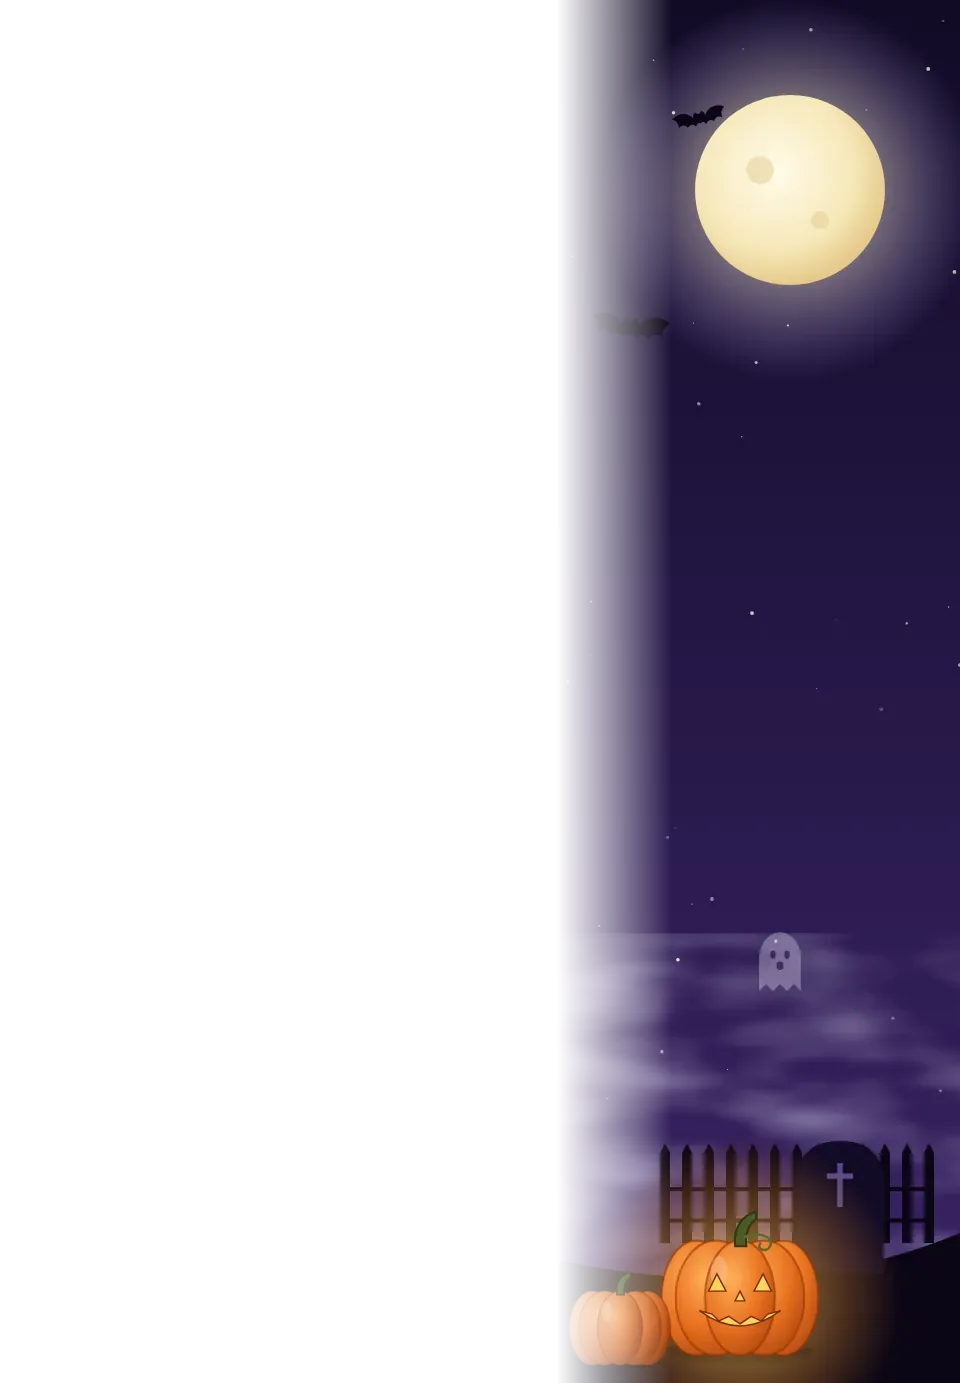
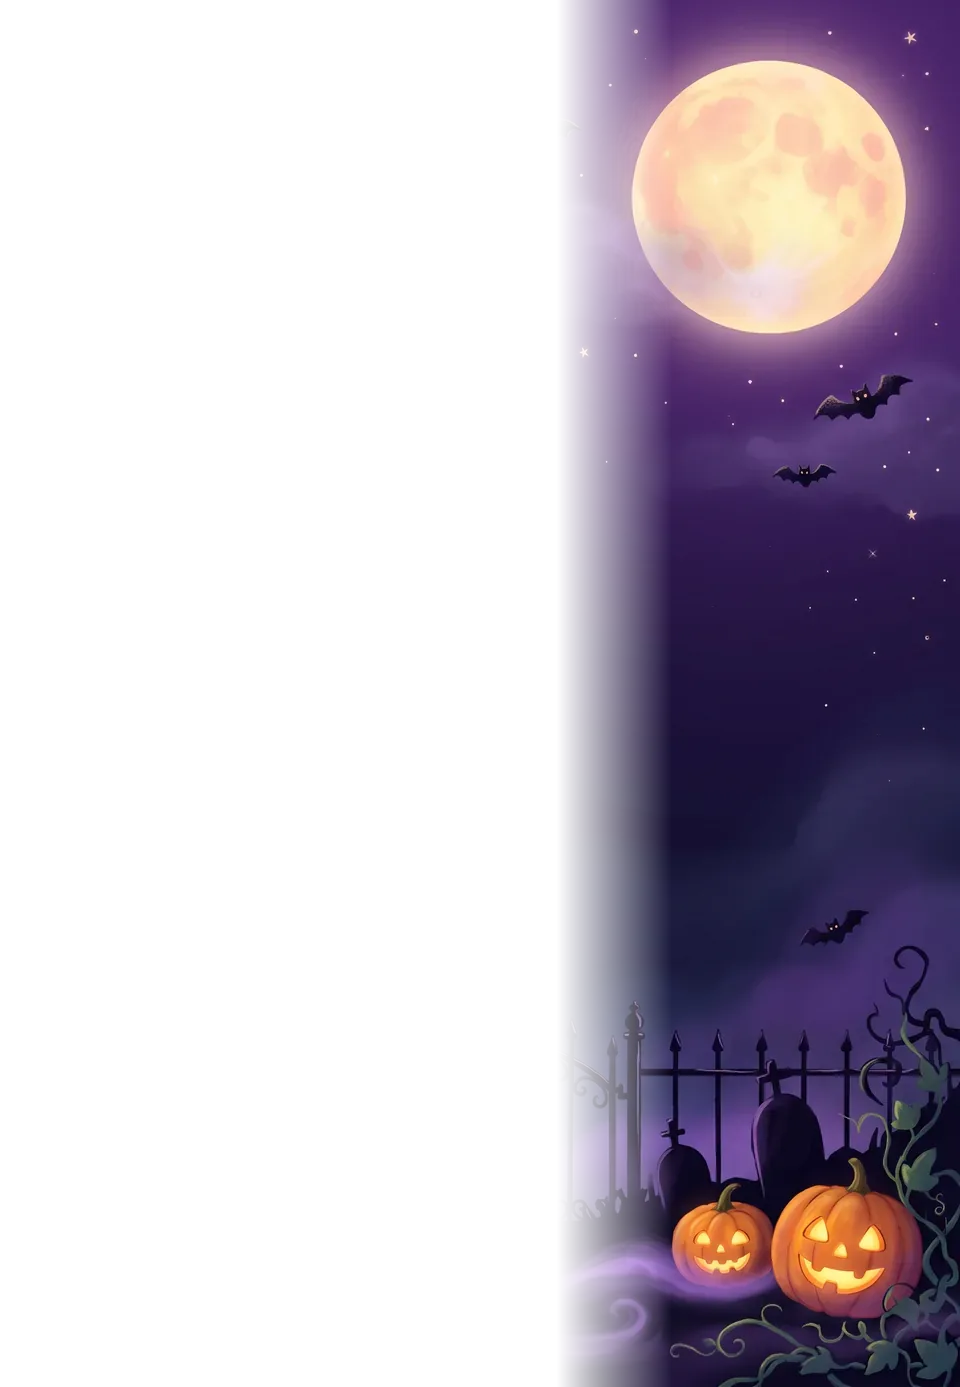
Use the AI images for the Halloween designs
- Pumpkin Patch and Haunted Night now use the generated card, background, side
  art, hero and venue images in place of the drawn stand-ins.
- The side art came with a drawn checkerboard instead of transparency:
  scripts/strip_checker.py clears it. The art is scaled to the outer edges so
  it stays clear of the text, and the mirrored right-side grave keeps "R.I.P."
  readable.

Claude-Session: https://claude.ai/code/session_01Ghh57wsWdzPhGMzGFRuGMB

Changed region(s): [[0.5938, 0.5597, 1.0, 1.0], [0.5938, 0.0, 1.0, 0.3731]]

diff --git a/scripts/strip_checker.py b/scripts/strip_checker.py
@@ -1,0 +1,85 @@
+#!/usr/bin/env python3
+"""Turns the grey-and-white "transparent" checkerboard that AI image tools draw into real transparency.
+
+It works on the grey-and-white grids Gemini and similar tools draw.
+
+Usage:  python3 scripts/strip_checker.py in.jpg out.webp [width height]
+(needs Pillow and numpy)
+
+How: a pixel is background when it is light and neutral grey, like the checker squares. Background regions
+touching the image edge are cleared; closed regions (inside a spider web, between wings) are cleared only when they
+hold both checker tones (light and lighter), so plain white shapes such as ghosts stay. Light edge pixels next to the cleared area are
+faded so no white halo shows on a dark page."""
+import sys
+from collections import deque
+
+import numpy as np
+from PIL import Image, ImageFilter
+
+
+def strip(src):
+    rgb = np.asarray(src.convert("RGB")).astype(np.int16)
+    mx, mn = rgb.max(2), rgb.min(2)
+    neutral = (mx - mn) < 14
+    cand = neutral & (mn >= 190)
+    lum0 = rgb.mean(2)
+    # label at half size (fast enough in pure Python)
+    h, w = cand.shape
+    c2 = cand[::2, ::2].copy()
+    L2 = lum0[::2, ::2]
+    H, W = c2.shape
+    lab = np.zeros((H, W), np.int32)
+    bg = np.zeros((H, W), bool)
+    nid = 0
+    rest = []
+    for sy in range(H):
+        row = c2[sy]
+        for sx in np.nonzero(row & (lab[sy] == 0))[0]:
+            if lab[sy, sx]:
+                continue
+            nid += 1
+            q = deque([(sy, sx)]); lab[sy, sx] = nid; pts = []; edge = False
+            while q:
+                y, x = q.popleft(); pts.append((y, x))
+                if y in (0, H - 1) or x in (0, W - 1):
+                    edge = True
+                for yy, xx in ((y + 1, x), (y - 1, x), (y, x + 1), (y, x - 1)):
+                    if 0 <= yy < H and 0 <= xx < W and c2[yy, xx] and not lab[yy, xx]:
+                        lab[yy, xx] = nid; q.append((yy, xx))
+            ys, xs = zip(*pts)
+            n = len(pts)
+            if edge:
+                bg[ys, xs] = True
+            elif n >= 20:
+                rest.append((ys, xs))
+    # closed pockets (inside a web, between twisted vines): background when made of the same two flat checker tones
+    hist = np.bincount(np.clip(L2[bg], 0, 255).astype(int), minlength=256)
+    t1 = int(hist.argmax()); hist[max(0, t1 - 8):t1 + 9] = 0; t2 = int(hist.argmax())
+    for ys, xs in rest:
+        v = L2[ys, xs]
+        n1, n2 = (abs(v - t1) < 8).mean(), (abs(v - t2) < 8).mean()
+        if n1 + n2 >= .6 and n1 >= .1 and n2 >= .1:
+            bg[ys, xs] = True
+    # back to full size: a full-size candidate pixel is background when its half-size cell is
+    big = np.repeat(np.repeat(bg, 2, 0), 2, 1)[:h, :w] & cand
+    alpha = np.where(big, 0, 255).astype(np.uint8)
+    # thin leftovers of the checker grid (seams 1-2 px wide, still light and greyish) go too
+    opened = np.asarray(Image.fromarray(alpha).filter(ImageFilter.MinFilter(5)).filter(ImageFilter.MaxFilter(5)))
+    alpha = np.where((opened == 0) & ((mx - mn) < 12) & (lum0 > 185), 0, alpha).astype(np.uint8)
+    a = Image.fromarray(alpha)
+    # fade light, greyish fringe pixels within 3 px of the cleared area
+    near = np.asarray(a.filter(ImageFilter.MinFilter(7))) == 0
+    lum = rgb.mean(2)
+    fringe = near & (alpha == 255) & ((mx - mn) < 26) & (lum > 150)
+    fa = np.clip((245 - lum) / 95, 0, 1) * 255
+    alpha = np.where(fringe, fa, alpha).astype(np.uint8)
+    out = src.convert("RGBA")
+    out.putalpha(Image.fromarray(alpha).filter(ImageFilter.GaussianBlur(.6)))
+    return out
+
+
+if __name__ == "__main__":
+    im = strip(Image.open(sys.argv[1]))
+    if len(sys.argv) > 4:
+        im = im.resize((int(sys.argv[3]), int(sys.argv[4])), Image.LANCZOS)
+    im.save(sys.argv[2], "WEBP", quality=85, method=6)

diff --git a/image-prompts.md b/image-prompts.md
@@ -93,7 +93,7 @@ Tips: generate on a plain background, then trace to SVG (Illustrator Image Trace
 
 ## Halloween designs (Pumpkin Patch, Haunted Night)
 
-Danata thiyena images code eken adala starter art. AI eken hadala **same file name ekata** `img/` ekata save karanna (WebP, size eka pahala thiyenawa). Card image eka save kalata passe `python3 scripts/card_sides.py th-pumpkin-card th-haunted-card` run karanna: eken 480 size ekai, card eke hollana side strips (`cardl`, `cardr`) dekai hadenawa.
+Danata `img/` eke thiyenne me prompts walin hadapu AI images. Aluth ewa danawanam AI eken hadala **same file name ekata** `img/` ekata save karanna (WebP, size eka pahala thiyenawa). Transparent kiyala image eke checkerboard ekak (kotu) pennuwoth `python3 scripts/strip_checker.py in.jpg img/th-pumpkin-l.webp 900 1612` run karanna, eken kotu tika ain wenawa. Side art eka screen eke pahala/udin 30% ta wada palala nam text ekata uda wenawa, eka nisa podi karanna. Card image eka save kalata passe `python3 scripts/card_sides.py th-pumpkin-card th-haunted-card` run karanna: eken 480 size ekai, card eke hollana side strips (`cardl`, `cardr`) dekai hadenawa.
 Hama prompt ekakatama anthimata: `no text, no letters, no watermark, no logos`. Gory dewal epa, cute-spooky widihata.
 
 ### Pumpkin Patch (light, autumn)
